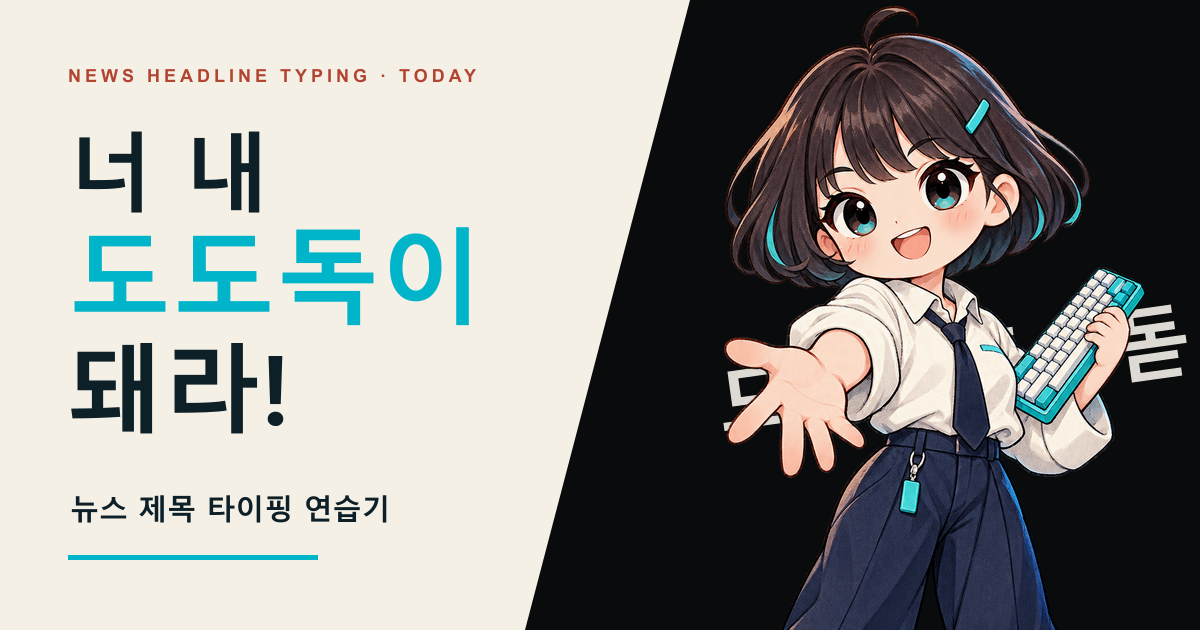
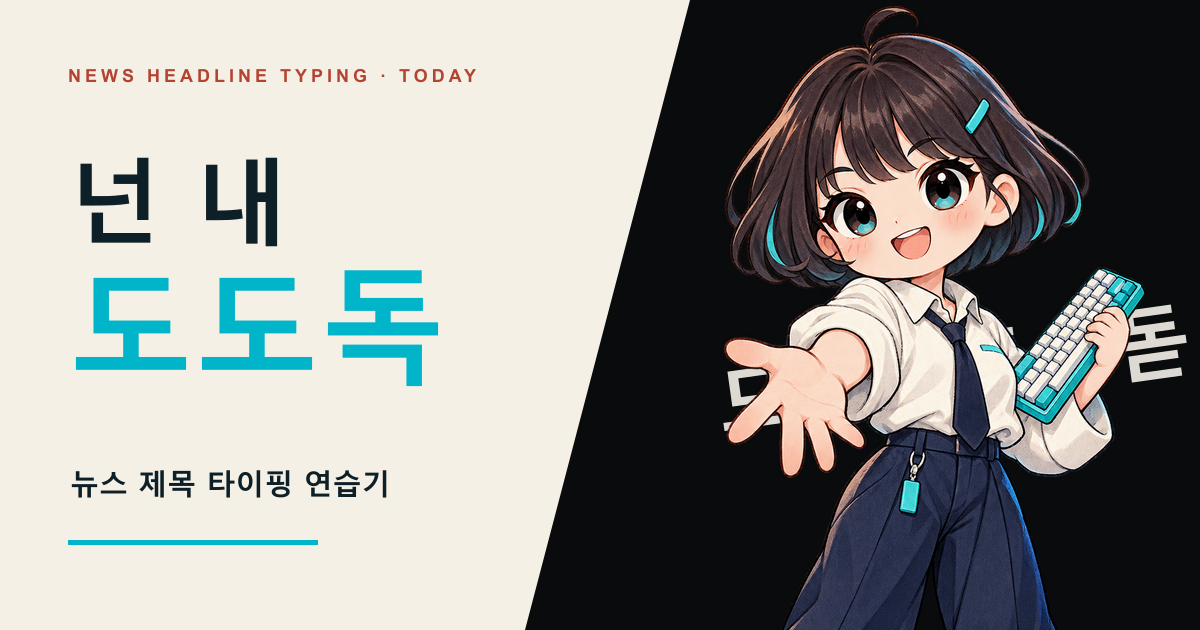
Rename Dododok game title

Changed region(s): [[0.0617, 0.2111, 0.4008, 0.6937], [0.0617, 0.7238, 0.3392, 0.9048]]

diff --git a/arcade/dododok/index.html b/arcade/dododok/index.html
@@ -3,23 +3,23 @@
 <head>
   <meta charset="utf-8">
   <meta name="viewport" content="width=device-width,initial-scale=1,viewport-fit=cover">
-  <title>너 내 도도독이 돼라! | 뉴스 제목 타이핑 연습기 | 충무로딩</title>
-  <meta name="description" content="너 내 도도독이 돼라! 최신 뉴시스 기사 제목을 도도독 타이핑하고 정확도와 타수를 확인한 뒤 방금 친 뉴스를 읽어보세요.">
-  <meta name="keywords" content="너 내 도도독,너 내 도도독이 돼라,너 내 도도독이 돼라!,도도독,도도독 게임,타자 연습,한글 타자 연습,뉴스 타이핑,뉴스 게임,충무로딩,비주얼 뉴시스,VISUAL NEWSIS,뉴시스,안재현,크리에이티브 디렉터 안재현,크리에이티브 안재현,디렉터 안재현">
+  <title>넌 내 도도독 | 뉴스 제목 타이핑 연습기 | 충무로딩</title>
+  <meta name="description" content="넌 내 도도독. ‘너 내 도도독이 돼라!’ 최신 뉴시스 기사 제목을 도도독 타이핑하고 정확도와 타수를 확인한 뒤 방금 친 뉴스를 읽어보세요.">
+  <meta name="keywords" content="넌 내 도도독,너 내 도도독,너 내 도도독이 돼라,너 내 도도독이 돼라!,도도독,도도독 게임,타자 연습,한글 타자 연습,뉴스 타이핑,뉴스 게임,충무로딩,비주얼 뉴시스,VISUAL NEWSIS,뉴시스,안재현,크리에이티브 디렉터 안재현,크리에이티브 안재현,디렉터 안재현">
   <meta name="author" content="크리에이티브 디렉터 안재현">
   <link rel="shortcut icon" href="https://image.newsis.com/n_www/images/ci/2024/favicon.png?v=20260829">
   <link rel="icon" type="image/png" href="https://image.newsis.com/n_www/images/ci/2024/favicon.png?v=20260829">
   <link rel="apple-touch-icon" href="https://image.newsis.com/n_www/images/ci/2024/favicon.png?v=20260829">
   <link rel="canonical" href="https://visual.newsis.com/arcade/dododok/">
   <meta property="og:type" content="website"><meta property="og:locale" content="ko_KR">
-  <meta property="og:title" content="너 내 도도독이 돼라!"><meta property="og:description" content="너 내 도도독! 최신 뉴스 제목을 직접 치는 뉴스 제목 타이핑 연습기">
+  <meta property="og:title" content="넌 내 도도독"><meta property="og:description" content="‘너 내 도도독이 돼라!’ 최신 뉴스 제목을 직접 치는 뉴스 제목 타이핑 연습기">
   <meta property="og:url" content="https://visual.newsis.com/arcade/dododok/"><meta property="og:site_name" content="VISUAL NEWSIS">
-  <meta property="og:image" content="https://visual.newsis.com/arcade/dododok/assets/og-dododok.png"><meta property="og:image:width" content="1200"><meta property="og:image:height" content="630"><meta property="og:image:alt" content="너 내 도도독이 돼라! 뉴스 제목 타이핑 게임">
-  <meta name="twitter:card" content="summary_large_image"><meta name="twitter:title" content="너 내 도도독이 돼라!"><meta name="twitter:description" content="뉴스 제목 타이핑 연습기"><meta name="twitter:image" content="https://visual.newsis.com/arcade/dododok/assets/og-dododok.png">
+  <meta property="og:image" content="https://visual.newsis.com/arcade/dododok/assets/og-dododok.png?v=20260829-2"><meta property="og:image:width" content="1200"><meta property="og:image:height" content="630"><meta property="og:image:alt" content="넌 내 도도독 뉴스 제목 타이핑 게임">
+  <meta name="twitter:card" content="summary_large_image"><meta name="twitter:title" content="넌 내 도도독"><meta name="twitter:description" content="뉴스 제목 타이핑 연습기"><meta name="twitter:image" content="https://visual.newsis.com/arcade/dododok/assets/og-dododok.png?v=20260829-2">
   <script async src="https://www.googletagmanager.com/gtag/js?id=G-6BKMWE02W5"></script>
   <script>window.dataLayer=window.dataLayer||[];function gtag(){dataLayer.push(arguments)}gtag('js',new Date());gtag('config','G-6BKMWE02W5');</script>
   <link rel="stylesheet" href="./style.css?v=20260829-2">
-  <script type="application/ld+json">{"@context":"https://schema.org","@graph":[{"@type":"Game","name":"너 내 도도독이 돼라!","alternateName":["너 내 도도독","너 내 도도독이 돼라","도도독","도도독 게임","뉴스 제목 타이핑 연습기","뉴스 타자 연습"],"url":"https://visual.newsis.com/arcade/dododok/","description":"너 내 도도독이 돼라! 최신 뉴시스 기사 제목을 입력하고 정확도와 타수를 확인한 뒤 원문 기사를 읽는 무료 타이핑 게임","genre":["Typing game","News game"],"inLanguage":"ko-KR","isAccessibleForFree":true,"creator":{"@type":"Person","name":"안재현","jobTitle":["크리에이티브 디렉터","뉴시스 기자"],"worksFor":{"@type":"NewsMediaOrganization","name":"뉴시스","url":"https://www.newsis.com/"}},"isPartOf":{"@type":"CollectionPage","name":"충무로딩","url":"https://visual.newsis.com/arcade/"},"publisher":{"@type":"NewsMediaOrganization","name":"뉴시스","url":"https://www.newsis.com/"}},{"@type":"BreadcrumbList","itemListElement":[{"@type":"ListItem","position":1,"name":"VISUAL NEWSIS","item":"https://visual.newsis.com/"},{"@type":"ListItem","position":2,"name":"충무로딩","item":"https://visual.newsis.com/arcade/"},{"@type":"ListItem","position":3,"name":"너 내 도도독이 돼라!","item":"https://visual.newsis.com/arcade/dododok/"}]}]}</script>
+  <script type="application/ld+json">{"@context":"https://schema.org","@graph":[{"@type":"Game","name":"넌 내 도도독","alternateName":["너 내 도도독","너 내 도도독이 돼라","너 내 도도독이 돼라!","도도독","도도독 게임","뉴스 제목 타이핑 연습기","뉴스 타자 연습"],"url":"https://visual.newsis.com/arcade/dododok/","description":"넌 내 도도독. ‘너 내 도도독이 돼라!’ 최신 뉴시스 기사 제목을 입력하고 정확도와 타수를 확인한 뒤 원문 기사를 읽는 무료 타이핑 게임","genre":["Typing game","News game"],"inLanguage":"ko-KR","isAccessibleForFree":true,"creator":{"@type":"Person","name":"안재현","jobTitle":["크리에이티브 디렉터","뉴시스 기자"],"worksFor":{"@type":"NewsMediaOrganization","name":"뉴시스","url":"https://www.newsis.com/"}},"isPartOf":{"@type":"CollectionPage","name":"충무로딩","url":"https://visual.newsis.com/arcade/"},"publisher":{"@type":"NewsMediaOrganization","name":"뉴시스","url":"https://www.newsis.com/"}},{"@type":"BreadcrumbList","itemListElement":[{"@type":"ListItem","position":1,"name":"VISUAL NEWSIS","item":"https://visual.newsis.com/"},{"@type":"ListItem","position":2,"name":"충무로딩","item":"https://visual.newsis.com/arcade/"},{"@type":"ListItem","position":3,"name":"넌 내 도도독","item":"https://visual.newsis.com/arcade/dododok/"}]}]}</script>
 </head>
 <body>
   <a class="skip" href="#game">타이핑 게임으로 바로가기</a>
